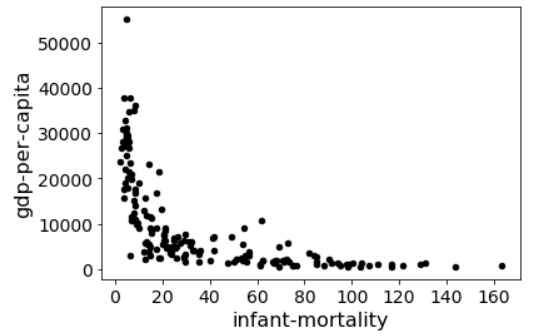
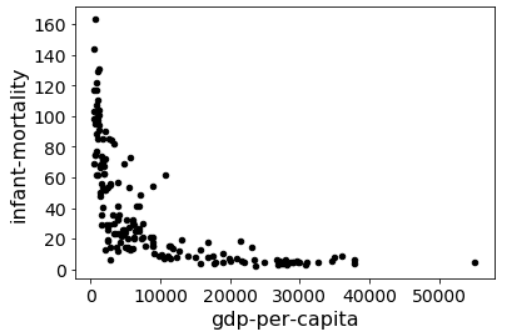
Q26-Q30 update

Changed region(s): [[0.0, 0.0, 0.9412, 0.9821], [0.9118, 0.0, 0.9706, 0.8333]]

diff --git a/spring20/p10/test.py b/spring20/p10/test.py
@@ -291,8 +291,8 @@ expected_json = {
     "12": "Bolivia",
     "13": "Uruguay",
     "24": 0.45232113250112843,
-    "28": (107087.18867997837, 1587.9379639672552),
-    "29": 55131.53230395644
+    "28": (6.482983154848297e-06, 0.013237849092120857),
+    "29": 0.33738700683453565
         }
 
 def parse_df_html_table(html, question=None):

diff --git a/spring20/p10/stage2.md b/spring20/p10/stage2.md
@@ -121,17 +121,17 @@ Answer with a **scatter plot** with `gdp-per-capita` on the x-axis and `death-ra
 
 <img src="imgs/2-25.PNG" width="400">
 
-#### Question 26: What is the relationship between infant-mortality and GDP per capita?
+#### Question 26: What is the relationship between GDP per capita and infant-mortality?
 
-Answer with a **scatter plot** with `infant-mortality` on the x-axis and `gdp-per-capita` on the y-axis.
+Answer with a **scatter plot** with `gdp-per-capita` on the x-axis and `infant-mortality` on the y-axis.
 
 **Expected output:**
 
 <img src="imgs/2-26.PNG" width="400">
 
-#### Question 27: What is the relationship between inverse of infant-mortality and GDP per capita?
+#### Question 27: What is the relationship between GDP per capita and inverse of infant-mortality?
 
-Answer with a **scatter plot** with `inverse infant-mortality` on the x-axis and `gdp-per-capita` on the y-axis.
+Answer with a **scatter plot** with `gdp-per-capita` on the x-axis and `inverse infant-mortality` on the y-axis.
 
 Hint: `inverse infant-mortality` is defined as `1 / infant-mortality`
 
@@ -165,17 +165,17 @@ df.plot.line(x='x', y='fit', c='red', ax=ax)
 ```
 
 Then adapt the above code so that it uses your DataFrame (instead of
-df) and replaces "x" with `inverse infant-mortality` and "y" with `gdp-per-capita`. Answer with a **tuple** for coefficients `(m, n)`.:
+df) and replaces "x" with `gdp-per-capita` and "y" with `inverse infant-mortality`. Answer with a **tuple** for coefficients `(m, n)`.:
 
 **Expected output:**
 
-`(107087.18867997837, 1587.9379639672552)`
+`(6.482983154848297e-06, 0.013237849092120857)`
 
-#### Question 29: When `inverse infant-mortality = 0.5`, what is the expected value for `gdp-per-capita`?
+#### Question 29: When `gdp-per-capita = 50000`, what is the expected value for `inverse infant-mortality`?
 
 **Expected output:**
 
-`55131.53230395644`
+`0.33738700683453565`
 
 #### Question 30: plot the regression line to the scatter plot
 
@@ -184,3 +184,5 @@ To visualize how well the regression line fit the scatter points, draw a fit lin
 **Expected output:**
 
 <img src="imgs/2-30.PNG" width="400">
+
+That's it for Stage 2. Please attempt the [Optional2](optional2.md) for further practice. 

diff --git a/spring20/p10/stage1.md b/spring20/p10/stage1.md
@@ -152,8 +152,7 @@ columns: `nearest` will contain the name of the nearest country and
  columns: `furthest` will contain the name of the furthest country and
  `distance` will contain the distance to that furthest country.
 
-
-
+That's it for Stage 1. Please attempt the [Optional1](optional1.md) for further practice. 
 
 
 
